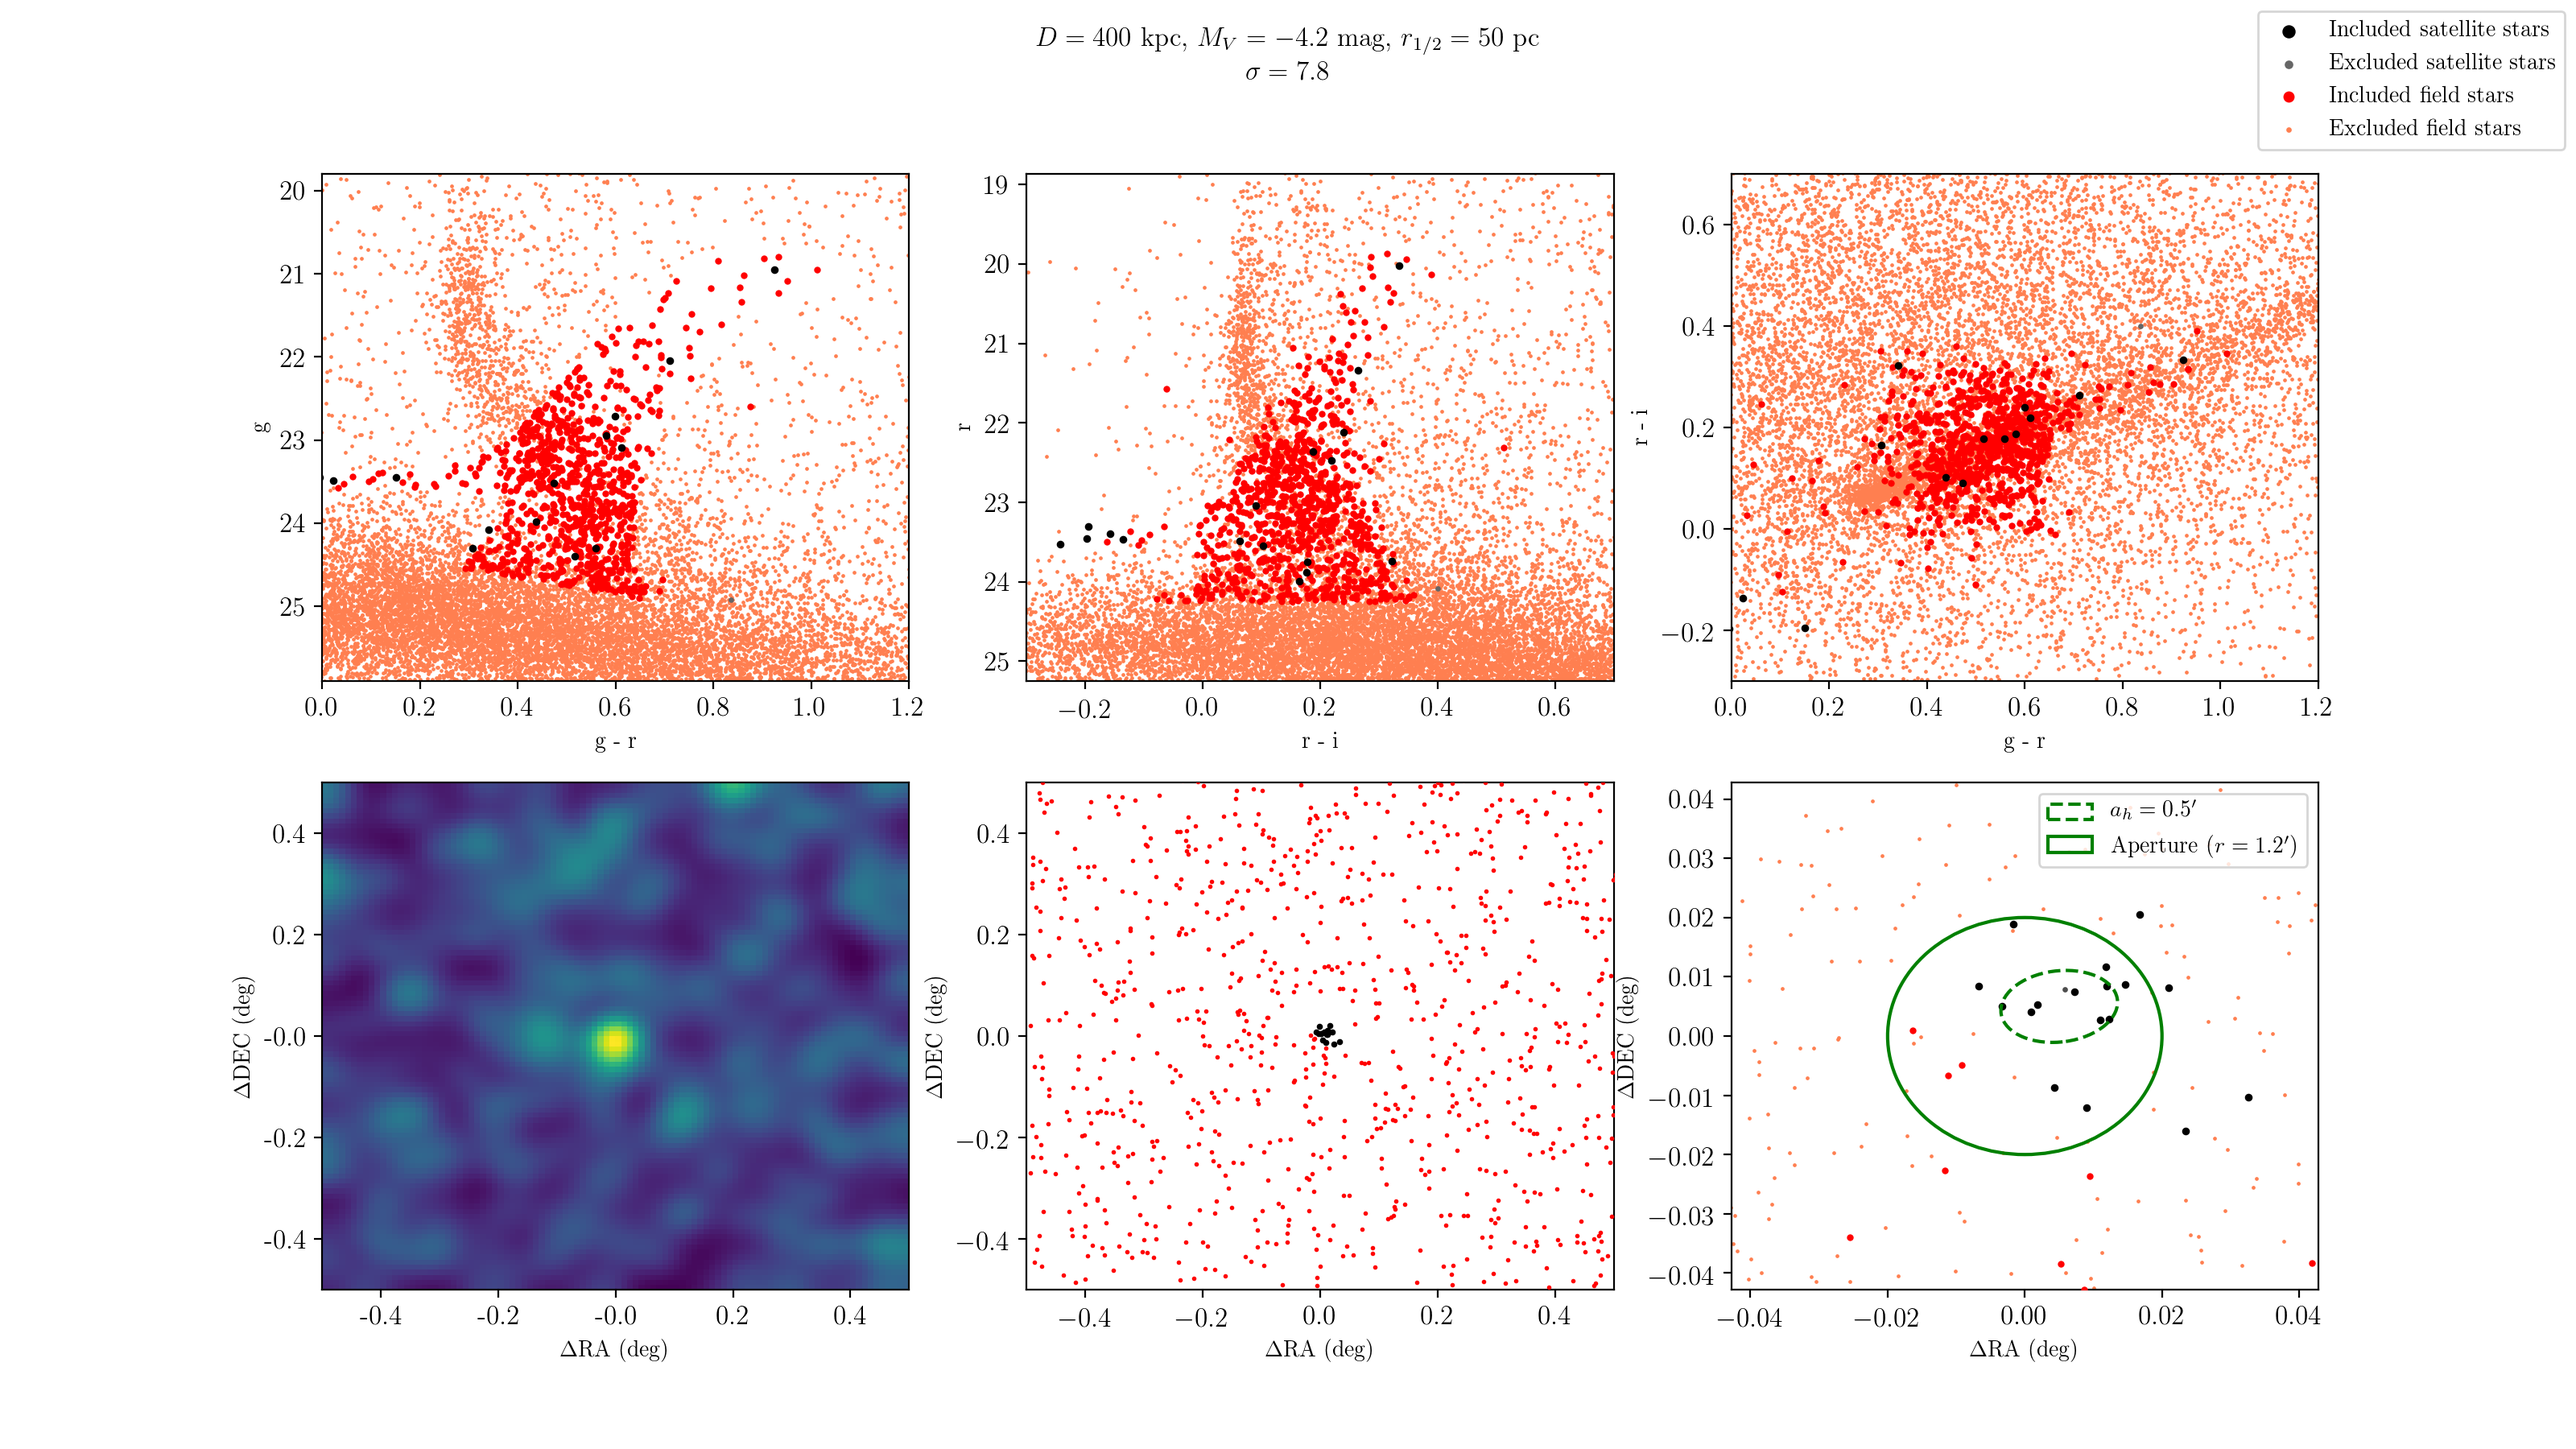
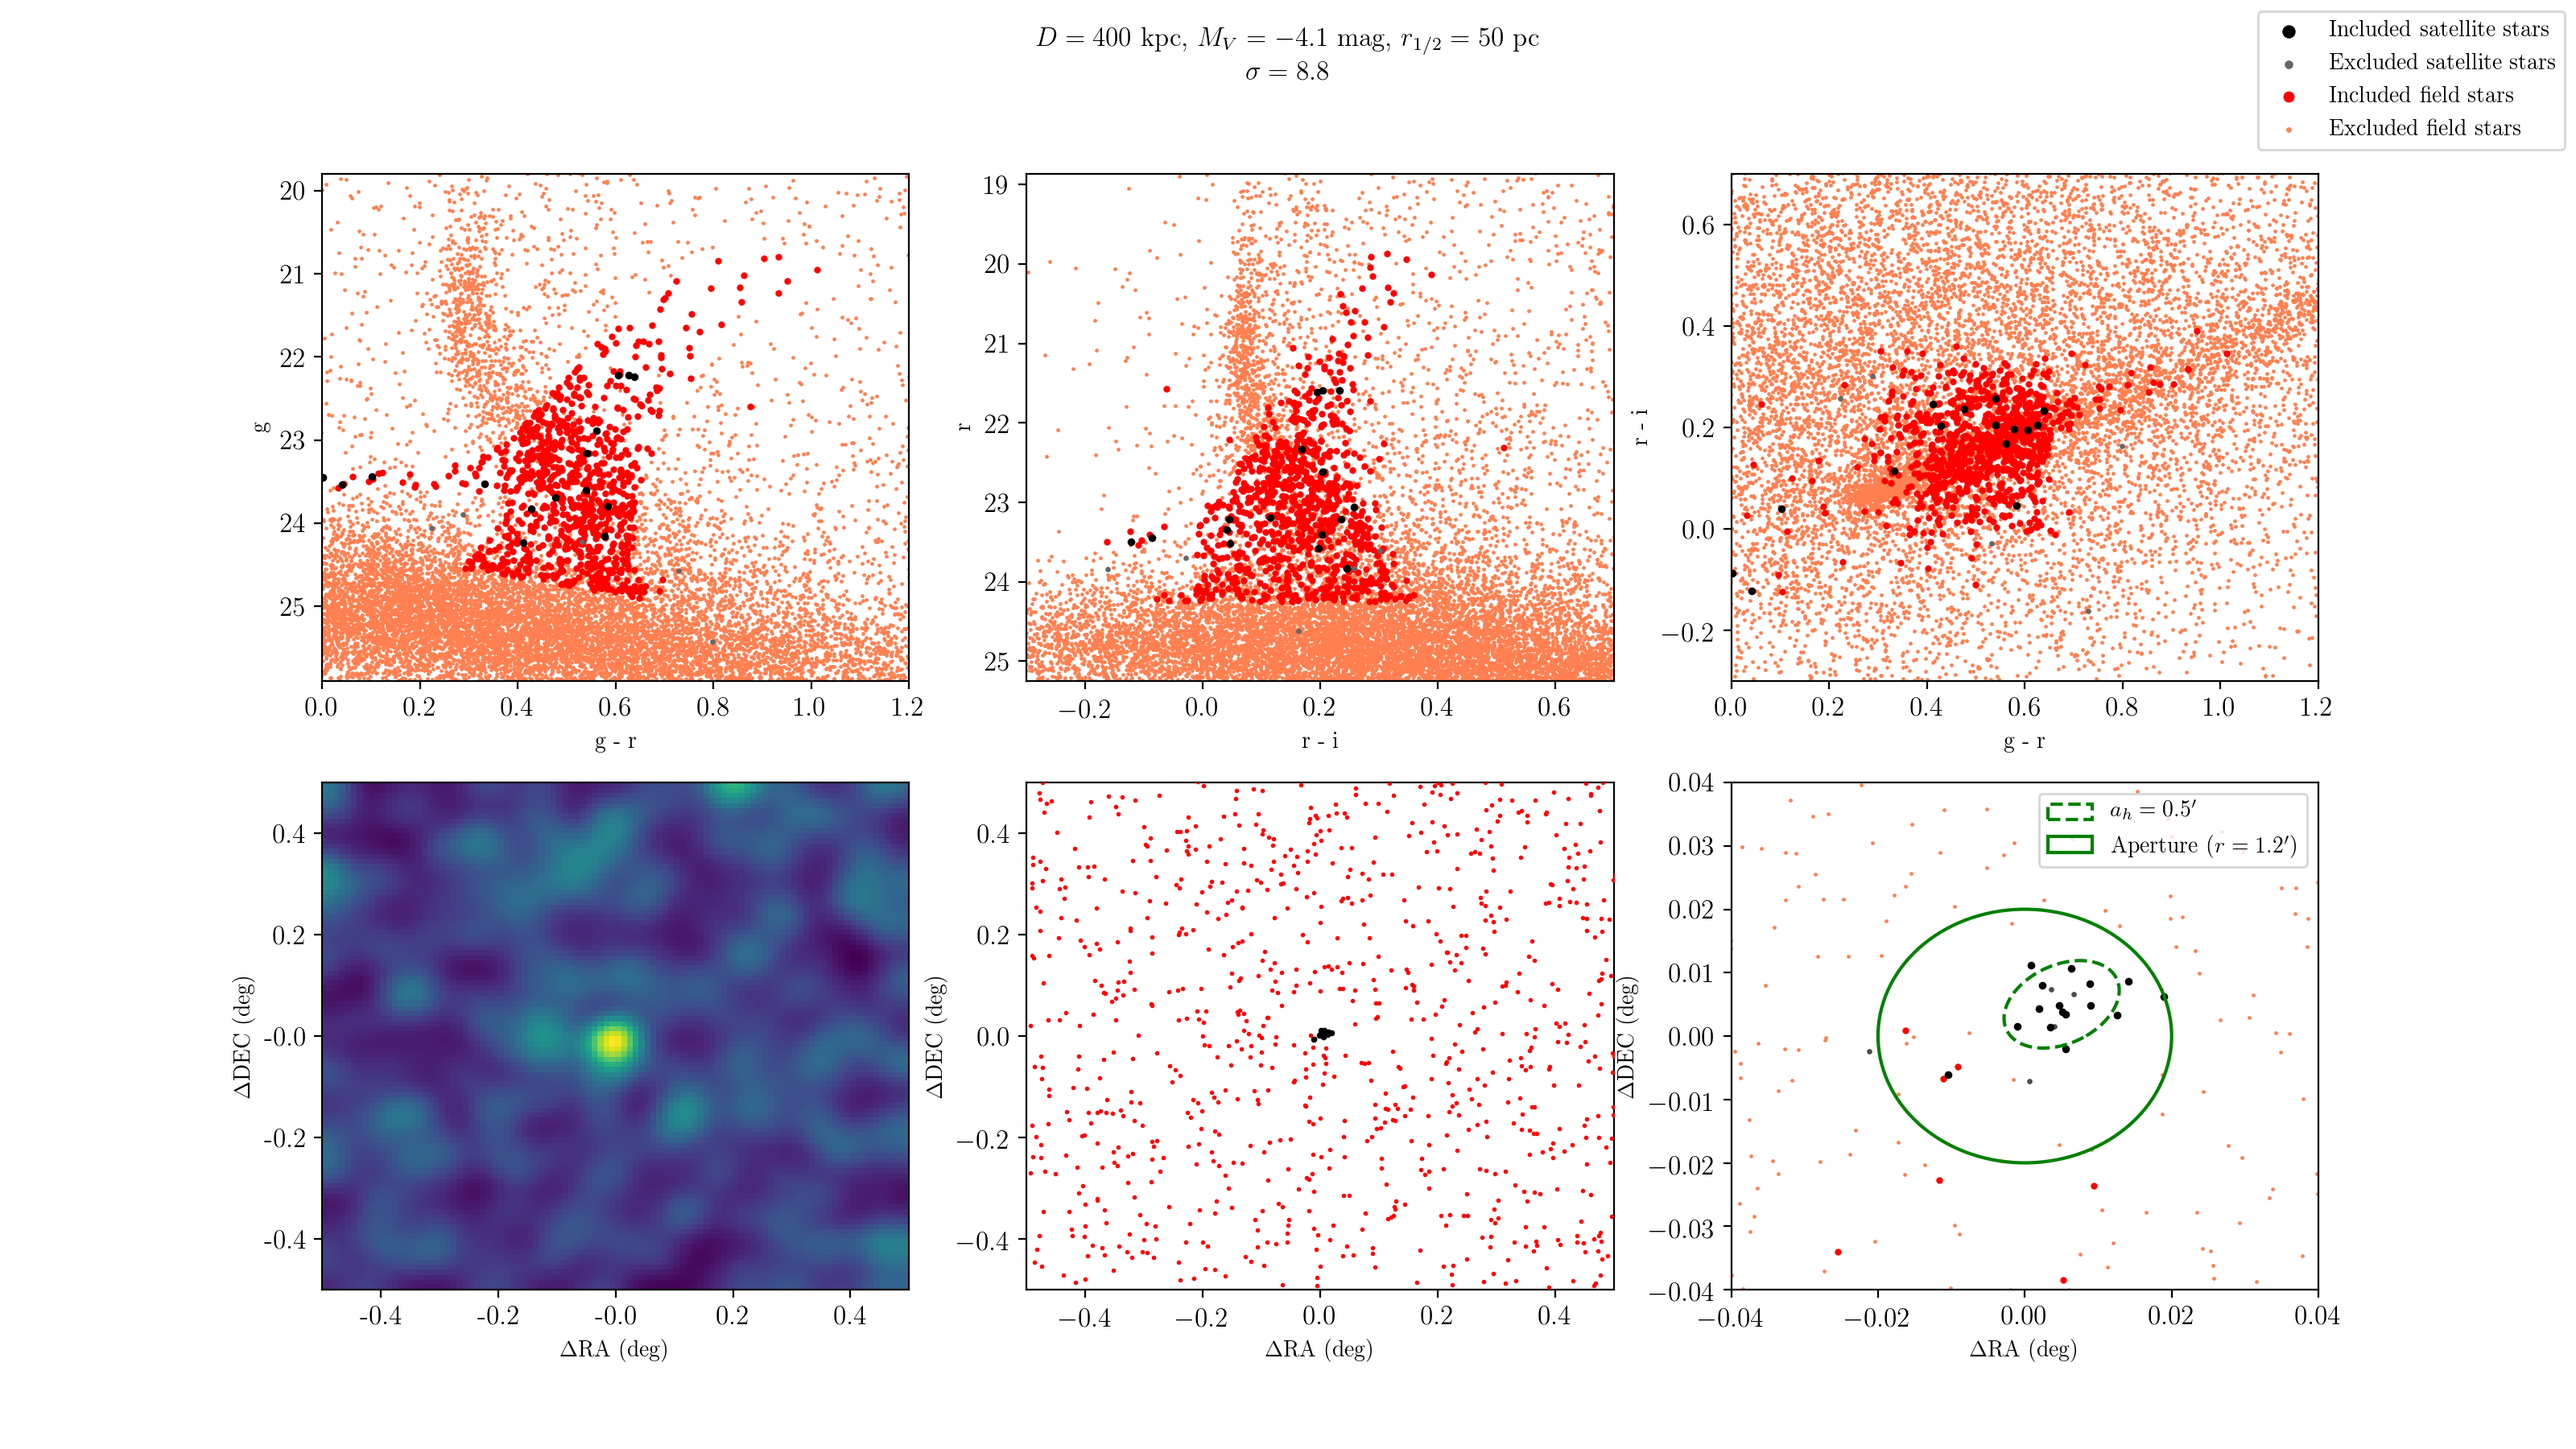
changed zoom

diff --git a/significance.py b/significance.py
@@ -459,8 +459,10 @@ def calc_sigma(distance, abs_mag, r_physical, plot=False, outname=None, inputs=N
                 ax.add_patch(aperture_patch)
                 plt.legend((half_light_ellipse, aperture_patch), (half_light_ellipse_label, aperture_label), loc='upper right')
 
-                plt.xlim(-5*sat.a_h, 5*sat.a_h)
-                plt.ylim(-5*sat.a_h, 5*sat.a_h)
+                lim = 2*max(sat.a_h, aperture)
+                plt.xlim(-lim, lim)
+                plt.ylim(-lim, lim)
+
             elif not zoom:
                 plt.scatter(data['ra'][sat_in]-centroid_ra, data['dec'][sat_in]-centroid_dec, s=3, color='black', label='Included satellite stars', zorder=5)
                 plt.scatter(data['ra'][fld_in]-centroid_ra, data['dec'][fld_in]-centroid_dec, s=1, color='red', label='Included field stars', zorder=3)
